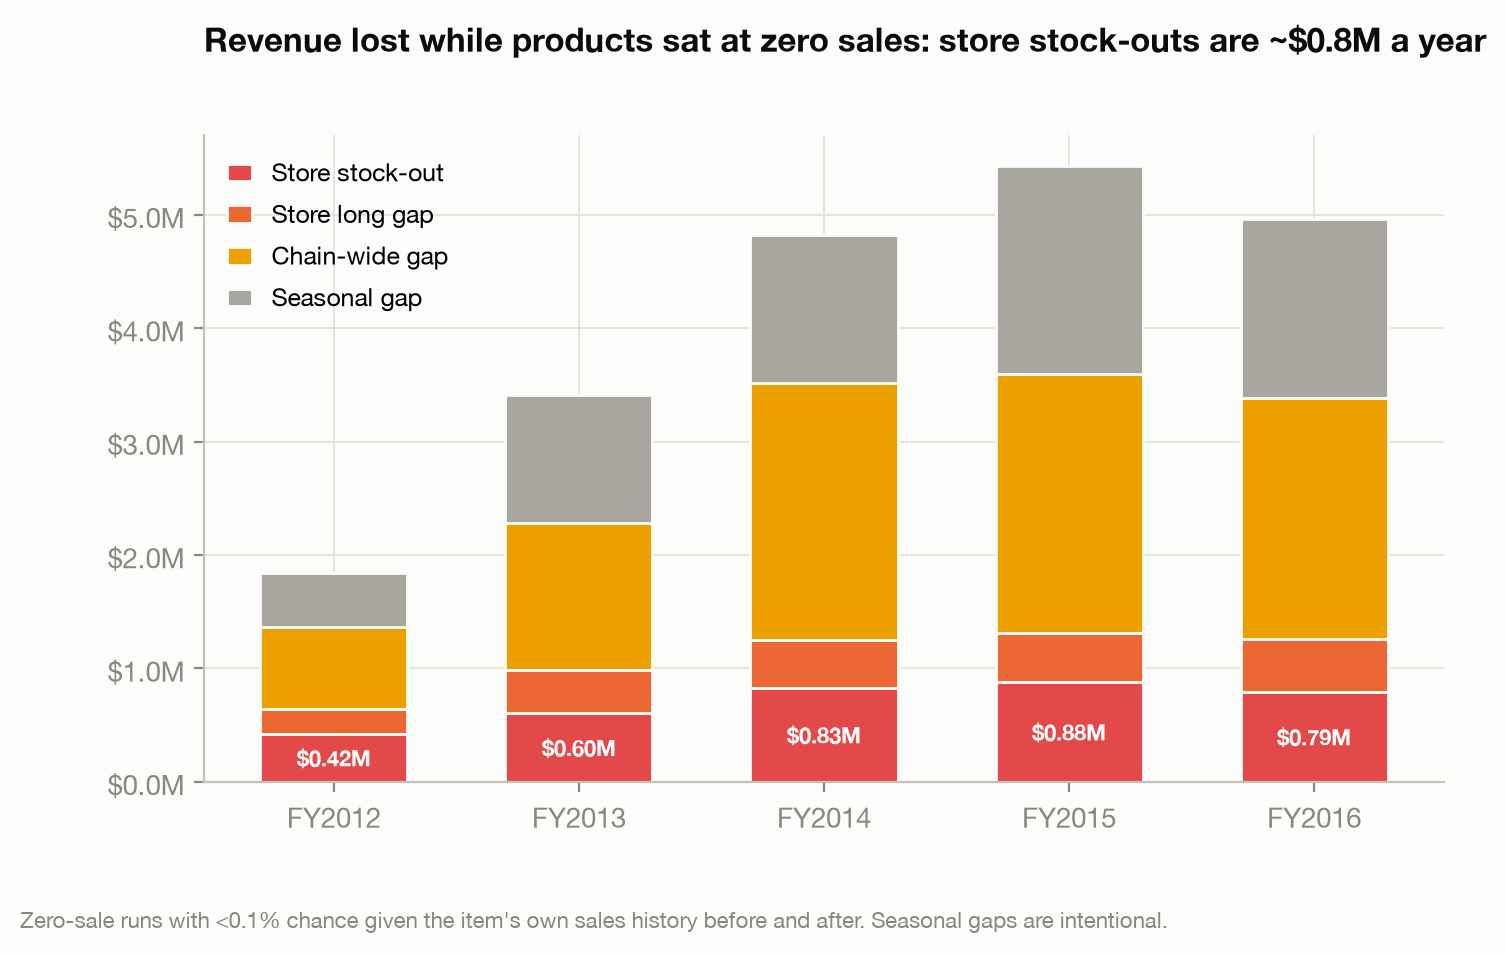
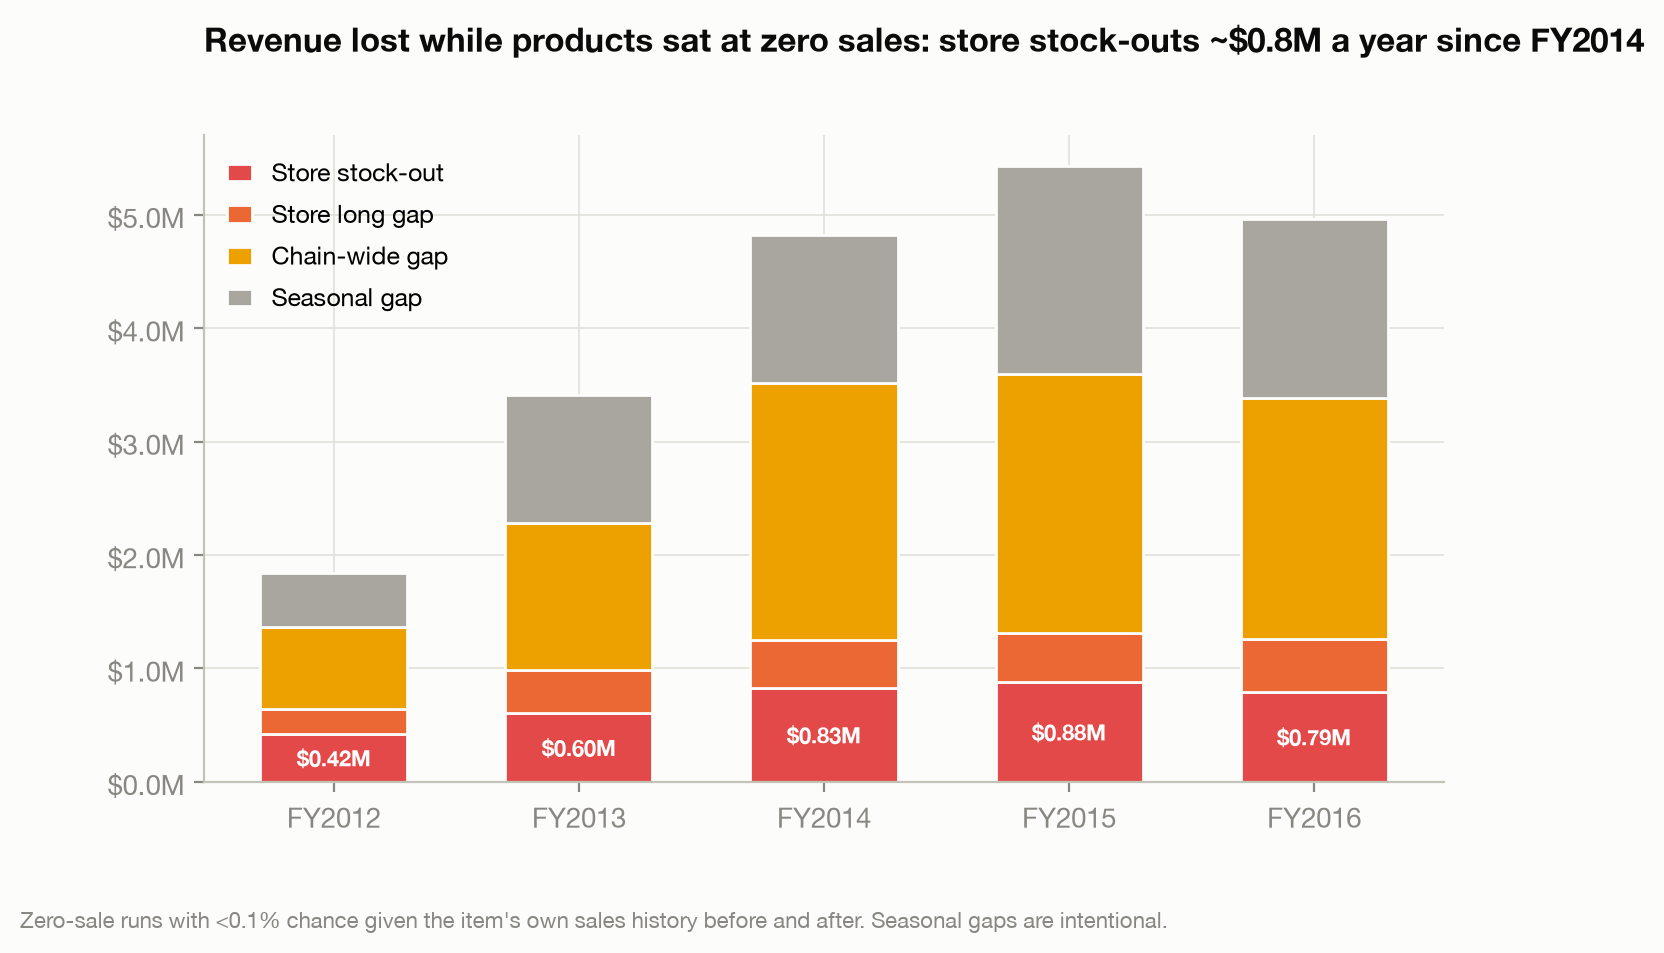
Final review: clearer summary, live CI badge, working links, honest wording
- Executive summary leads with the bottom line and the six actions; the
  findings follow as evidence.
- README: live GitHub Actions badge; the sample monthly review now links to
  the rendered page on GitHub Pages instead of raw HTML; 'Stress-testing
  sharpened the recommendations' (the stock-out opportunity shrank under
  testing, so 'hold up' overstated it); tidier reproduce steps.
- Interview Q&A: clearer elasticity definition; removed two claims without
  a source; added how this would run in a real analytics team.
- Two report chart titles brought in line with the qualified findings.

diff --git a/src/retailrev/figures.py b/src/retailrev/figures.py
@@ -388,7 +388,7 @@ def elasticity() -> None:
     ax2.set_xlabel("Event-study elasticity vs same item, other stores")
     _suptitle(
         fig,
-        "Household is the least price-sensitive area; shoppers react far less to price increases than to cuts",
+        "Household looks least price-sensitive in the main model; shoppers react far less to increases than to cuts",
         x=0.01,
         ha="left",
         fontweight="bold",
@@ -443,7 +443,7 @@ def stockouts() -> None:
     ax.set_xticks(range(len(t)), [f"FY{y}" for y in t.index])
     ax.yaxis.set_major_formatter(mtick.FuncFormatter(_m))
     ax.legend(loc="upper left", handlelength=1, fontsize=_fs(9))
-    _title(ax, "Revenue lost while products sat at zero sales: store stock-outs are ~$0.8M a year")
+    _title(ax, "Revenue lost while products sat at zero sales: store stock-outs ~$0.8M a year since FY2014")
     _save(
         fig,
         "10_stockouts",

diff --git a/README.md b/README.md
@@ -2,12 +2,12 @@
 
 **Revenue across 10 Walmart stores grew 65% in four years, but the same products in the same stores sold less for three of those years.** This project measures how much growth was real, finds why existing products shrank, sizes the levers (availability, pricing, SNAP timing, store changes), groups products into five segments with their own playbooks, designs a price test, and forecasts the next year. It uses real Walmart sales data.
 
-![CI](https://img.shields.io/badge/tests-41%20pytest%20%2B%2034%20dbt-2a78d6) · 📄 [Executive summary](reports/executive_summary.md) · 📓 [Exploration notebook](notebooks/01_exploration.ipynb) · 📅 [Sample monthly review](reports/monthly/mbr_2016-04.html) · 📖 [Metrics catalog](docs/metrics_catalog.md) · 🗂 [Data model (dbt docs)](https://maxliston.github.io/walmart-revenue-analytics/) · 📗 [Excel model](reports/walmart_price_test_and_segments.xlsx) · 🎤 [Interview Q&A](docs/interview_prep.md) · 📊 Dashboard: `streamlit run app.py --server.address localhost` <!-- add the deployed link: docs/deploy.md -->
+[![CI](https://github.com/MaxListon/walmart-revenue-analytics/actions/workflows/ci.yml/badge.svg)](https://github.com/MaxListon/walmart-revenue-analytics/actions/workflows/ci.yml) 41 tests + 34 dbt checks · 📄 [Executive summary](reports/executive_summary.md) · 📓 [Exploration notebook](notebooks/01_exploration.ipynb) · 📅 [Sample monthly review](https://maxliston.github.io/walmart-revenue-analytics/monthly/mbr_2016-04.html) · 📖 [Metrics catalog](docs/metrics_catalog.md) · 🗂 [Data model (dbt docs)](https://maxliston.github.io/walmart-revenue-analytics/) · 📗 [Excel model](reports/walmart_price_test_and_segments.xlsx) · 🎤 [Interview Q&A](docs/interview_prep.md) · 📊 Dashboard: `streamlit run app.py --server.address localhost` <!-- add the deployed link: docs/deploy.md -->
 
 ## Start here (2 minutes)
 1. **The question:** total revenue is growing. Is that real, and what should the business do next?
 2. **The answer:** growth came mostly from *adding* products. Existing products shrank for three years, mainly from weaker demand, and recovered in FY2016. Stock-outs, SNAP timing and a carefully designed price test are where the money is.
-3. **Where to look:** the [executive summary](reports/executive_summary.md) (one page), the dashboard below (its *Start here* tab tells the story in six steps), then the [SQL highlights](#sql-highlights) and [methods](#whats-in-the-analysis). Every metric is defined in the [metrics catalog](docs/metrics_catalog.md).
+3. **Where to look:** the [executive summary](reports/executive_summary.md) (bottom line and actions first), the dashboard below (its *Start here* tab tells the story in six steps), then the [SQL highlights](#sql-highlights) and [methods](#whats-in-the-analysis). Every metric is defined in the [metrics catalog](docs/metrics_catalog.md).
 
 ![Dashboard demo](reports/figures/dashboard_demo.gif)
 
@@ -26,7 +26,7 @@
 
 **4. Five product segments need five different playbooks.** Grouping all 3,049 products by how they sell (speed, gaps, seasonality, SNAP lift, stock-outs) gives **core fast movers** (27% of products, 46% of revenue), **SNAP-driven staples**, **availability risk**, **seasonal** and **long tail**. The surprise: **SNAP-driven staples are 14% of products but 41% of store stock-out losses.** Food runs out around SNAP days.
 
-**5. The recommendations hold up when stress-tested.**
+**5. Stress-testing sharpened the recommendations.**
 - **Forecasting:** on the M5 competition's own accuracy metric, a weekday average that adds this project's SNAP effects beats the standard seasonal-naive benchmark by **34%** and exponential smoothing by 22%, winning 5 of 6 test windows. The SNAP finding measurably improves forecasts.
 - **Stock-outs:** a simulation calibrated to the measured losses shows about a quarter is realistically recoverable (**≈$0.2M a year**, not the full $0.79M) for a modest rise in safety stock; SNAP-aware ordering trims staples' losses at no extra inventory.
 - **Launches:** a product's **first-month revenue per store-week** already ranks future top sellers well (AUC 0.92; its top-20% picks become top sellers 71% of the time vs 19% at random). A fuller model adds nothing.
@@ -108,7 +108,7 @@ The same warehouse is rebuilt in [dbt](dbt/) with 34 data tests, including one t
 - **Reproducible:** the full pipeline was re-run and every output diffed against the previous run; exact package versions are pinned in `requirements-lock.txt`.
 - **GitHub Actions:** linting with ruff, the tests, and a dbt compile check, on the pinned versions. Tests that need the non-redistributable raw data skip in CI.
 - **Self-contained dashboard:** it reads only the committed `outputs/`, so it deploys without the raw data ([deploy guide](docs/deploy.md)). A *Start here* tab tells the story, a sidebar glossary explains every term, and every tab offers its data as CSV.
-- **Automated monthly business review:** `python -m retailrev.report --month 2016-04` writes a one-page HTML review for any month: KPIs, an auto-written summary, a reconciling bridge, category and state tables, top movers and stock-outs ([example](reports/monthly/mbr_2016-04.html)).
+- **Automated monthly business review:** `python -m retailrev.report --month 2016-04` writes a one-page HTML review for any month: KPIs, an auto-written summary, a reconciling bridge, category and state tables, top movers and stock-outs ([example](https://maxliston.github.io/walmart-revenue-analytics/monthly/mbr_2016-04.html)).
 - **Metrics catalog:** one definition, formula, grain and source for every number ([docs/metrics_catalog.md](docs/metrics_catalog.md)).
 - **BI-ready:** extracts and build guides for [Tableau](docs/tableau_build_guide.md) and [Power BI](docs/powerbi_build_guide.md).
 - **Excel model:** [a workbook](reports/walmart_price_test_and_segments.xlsx) with a live price-test ROI model (change the price or elasticity and everything recalculates), the segment table and comparable sales, all as formulas (`python -m retailrev.excel`).
@@ -138,8 +138,7 @@ python -m retailrev.report --month 2016-04   # one-page monthly business review
 python -m retailrev.price_test   # price-test readout on a simulated result
 python -m retailrev.excel        # Excel workbook (formulas; Excel recalculates on open)
 pytest                           # 41 tests (incl. dashboard tests)
-cd dbt && dbt build --profiles-dir . && dbt docs generate --profiles-dir . --static && cd ..
-                                 # 34 dbt data tests, then the data-model site (dbt/target/static_index.html)
+cd dbt && dbt build --profiles-dir . && dbt docs generate --profiles-dir . --static && cd ..   # 34 data tests + docs site
 streamlit run app.py --server.address localhost   # local only; drop the flag to share on your network
 ```
 

diff --git a/docs/interview_prep.md b/docs/interview_prep.md
@@ -5,14 +5,14 @@ The questions an interviewer is most likely to ask about this project, with plai
 ---
 
 ## The 30-second pitch
-> "I analyzed five years of real Walmart sales, 59 million daily records across 10 stores. Revenue grew 65%, but when I held the product range fixed, the same products in the same stores were shrinking for three years. Growth was coming from adding products. I tested why: it wasn't new products stealing sales or a pricing problem; it was mostly weaker demand, plus about $0.8M a year in stock-outs. I sized the levers, designed a price test with real power calculations, and built a forecast with 0.9% backtest error, less than half that of a naive run-rate."
+> "I analyzed five years of real Walmart sales, 59 million daily records across 10 stores. Revenue grew 65%, but when I held the product range fixed, the same products in the same stores were shrinking for three years. Growth was coming from adding products. I tested why: it wasn't new products stealing sales or a pricing problem; it was mostly weaker demand, plus about $0.8M a year lost to stock-outs, of which about a quarter is realistically recoverable. I sized the levers, designed a price test with real power calculations, and built a forecast with 0.9% backtest error, less than half that of a naive run-rate."
 
 ---
 
 ## About the data
 
 **Is this real data?**
-Yes. It's the M5 forecasting competition dataset, which Walmart released through the University of Nicosia in 2020: real daily unit sales and weekly shelf prices for 3,049 products in 10 stores. Product names are anonymized, but categories, departments, stores and states are real. Three peer-reviewed papers describe it, including one showing it behaves like other real grocery datasets.
+Yes. It's the M5 forecasting competition dataset, which Walmart released through the University of Nicosia in 2020: real daily unit sales and weekly shelf prices for 3,049 products in 10 stores. Product names are anonymized, but categories, departments, stores and states are real. The competition and data are described in the *International Journal of Forecasting* (Makridakis, Spiliotis & Assimakopoulos, 2022).
 
 **Where does revenue come from? There's no revenue column.**
 Revenue = units sold × that week's shelf price. I checked that every unit sold has a price, so the calculation is complete, and units and revenue reconcile exactly across every table.
@@ -77,14 +77,14 @@ A run of zero-sale days is flagged when the product's own history makes it very 
 - I take the more conservative of the before/after rates.
 - Long gaps are classified separately: "seasonal" if the gap recurs at the same time each year, "chain-wide" if most other stores are dark at the same time.
 
-Only short gaps count as lost sales: $0.79M in FY2016 (1.9% of revenue), which is in line with industry norms. A test confirms the detector ignores a product whose demand truly disappears.
+Only short gaps count as lost sales: $0.79M in FY2016 (1.9% of revenue). A test confirms the detector ignores a product whose demand truly disappears.
 
 ---
 
 ## Pricing
 
 **What's price elasticity?**
-The % change in units for a 1% change in price. Above −1 in absolute terms (e.g. −0.4) means a price rise loses fewer units than it gains in price, so revenue goes up.
+The % change in units for a 1% change in price. Between 0 and −1 (e.g. −0.4), a price rise loses proportionally fewer units than it gains in price, so revenue goes up; below −1 (e.g. −1.5), revenue falls.
 
 **How did you estimate it?**
 Two ways:
@@ -115,6 +115,8 @@ I ran 200 "A/A tests" per design on real history: random fake treatment groups w
 
 ---
 
+---
+
 ## Product segments
 
 **How did you segment products, and why products instead of customers?**
@@ -129,6 +131,8 @@ Core fast movers are 27% of products but 46% of revenue. The surprise was SNAP-d
 **How do you know the method works?**
 A test plants five groups of fake products with known behaviours and checks that the method puts over 95% of them back in the right group with the right name, and gives the same answer however the rows are ordered.
 
+---
+
 ## Stress-testing the recommendations
 
 **How good is your forecasting, really?**
@@ -142,6 +146,8 @@ Not all of it. With no inventory data, I simulated weekly ordering with a 3-day 
 
 **How do you know the price-test analysis would work?**
 I wrote the brief before any result (hypothesis, design, metrics, guardrails, decision rule), then planted a known demand response into real Household sales and ran the exact analysis. Repeated 40 times per case, it said roll out 82% of the time when the rise truly pays and never when it doesn't, with unbiased estimates. The brief also flags the biggest risk: shoppers substituting from raised products to unraised ones in the same store, which would make demand look more elastic than a full rollout.
+
+---
 
 ## SNAP, stores, forecast
 
@@ -173,6 +179,9 @@ Each time, the checks caught the problem.
 - **dbt:** 34 data tests, including one that checks the dbt build against the Python pipeline.
 - **Reconciliation:** every revenue bridge reconciles to the cent.
 - **The dashboard itself:** automated tests render every tab, try every dropdown and filter option, and check the headline numbers against the analysis outputs, on every push.
+
+**How would this run in a real analytics team?**
+The same way it's built here. The metric definitions live in one [metrics catalog](metrics_catalog.md), so finance and merchandising mean the same thing by "comparable sales". A one-command [monthly business review](https://maxliston.github.io/walmart-revenue-analytics/monthly/mbr_2016-04.html) replaces a hand-built slide pack and flags its own weak spots (for example, stock-out estimates for the latest month are incomplete). The data model is documented and tested in dbt, the dashboard is tested on every change, and every number in the deck traces back to a file in `outputs/`.
 
 **What would you do with more data?**
 - **Promotion and display data:** to separate price effects from signage.

diff --git a/reports/executive_summary.md b/reports/executive_summary.md
@@ -5,6 +5,16 @@
 ## Bottom line
 Revenue grew **65%** from FY2012 to FY2016 ($25.9M → $42.8M), but **the same products in the same stores sold less for three straight years**. Comparable sales were −3.5%, −9.2% and −5.9%. Adding products carried growth until FY2016, when comparable sales turned positive (**+5.6%**, 95% CI +2.9% to +8.4%). FY2017 is tracking to **$48.7M (+13.8%)**.
 
+## What to do
+1. **Report comparable sales next to total growth** in every review, with the revenue bridge.
+2. **Run the Household price test** as set out in the [brief](../docs/price_test_brief.md): a 5% increase on a random half of product-store pairs for 12 weeks. If elasticity is about −0.4, a full Household rollout is worth about **+3% ≈ $0.4M a year** on $13.3M of revenue. If the test finds elasticity near −1, don't roll out.
+3. **Cut store stock-outs**, starting with SNAP-driven staples (41% of the losses): daily zero-sales alerts, modestly more safety stock and SNAP-aware ordering for staples. $0.79M was lost in FY2016; about $0.2M a year is realistically recoverable.
+4. **Plan food replenishment and labor to each state's SNAP calendar**, especially in Wisconsin and Texas.
+5. **Review chain-wide gaps with merchandising:** $2.1M of FY2016 revenue was lost while listed products were dark in most stores at once. Separate deliberate range cuts from supply failures.
+6. **Visit CA_3** (the largest store, with flat comparable sales) **and WI_3** (−25% in April 2013).
+
+The evidence for each is below.
+
 ![Total vs comparable growth](figures/01_growth_vs_comp.png)
 
 ## Findings
@@ -25,7 +35,7 @@ Revenue grew **65%** from FY2012 to FY2016 ($25.9M → $42.8M), but **the same p
 **3. Stock-outs have cost about $0.8M a year since FY2014.** A zero-sale run is flagged when the product's own sales history makes it less than 0.1% likely.
 - **Store stock-outs:** $0.79M lost in FY2016 (1.9% of revenue).
 - **Chain-wide gaps:** another $2.1M, when products are dark in most stores at once. That's a supply or assortment question.
-- **Store long gaps:** $0.46M, when one store is dark for longer than a month while others keep selling.
+- **Store long gaps:** $0.46M, when one store is dark for longer than 28 days while most other stores keep selling.
 - **Seasonal gaps:** $1.6M, which are intentional.
 
 **4. Household is the best candidate for a price test, but not a settled case.** In the main Poisson fixed-effects model, Household elasticity is about −0.4 (HOUSEHOLD_1 −0.41, HOUSEHOLD_2 −0.39), while Foods sits near −0.9 to −1.4. The robustness checks are noisier: restricted to fast sellers, HOUSEHOLD_2 comes out at +0.09 (CI −0.57 to +0.75), and the price-change event study for HOUSEHOLD_1 alone gives −1.63 (CI −2.88 to −0.38). That uncertainty is why the recommendation is a test, not a rollout. Across all 15,246 permanent price changes, compared against the same product in stores that kept the old price:
@@ -57,21 +67,13 @@ SNAP-driven staples carry far more than their share of stock-outs: demand spikes
 
 ![Product segments](figures/17_product_segments.png)
 
-**10. The recommendations hold up when stress-tested.**
+**10. Stress-testing sharpened the recommendations.**
 - **Forecasting:** scored with the M5 competition's own metric (WRMSSE, 9 aggregate levels, six 28-day windows), a weekday average that adds the SNAP-day effects from finding 6 is **34% more accurate than seasonal naive** and 22% better than exponential smoothing, winning 5 of 6 windows.
 - **Stock-outs:** a weekly-ordering simulation, calibrated so today's policy loses what the detector measured, recovers **26% of losses for $85K more average inventory** (+0.5 SD safety stock), with diminishing returns after that. Scaled to all store stock-outs, about **$0.2M a year is realistically recoverable**, not $0.79M. SNAP-aware ordering saves staples about $17K a year at the same inventory.
 - **Launches:** first-month revenue per store-week alone ranks future top sellers with AUC 0.92; its top-20% picks become top sellers 71% of the time (19% at random). A logistic model with five more signals adds nothing.
 - **Price test:** the [experiment brief](../docs/price_test_brief.md) fixes the analysis in advance. Run on real sales with a planted response, the decision rule rolled out 82% of the time when the rise truly pays (consistent with the designed 89%) and never when it doesn't; estimates were unbiased.
 
 ![Forecast benchmark](figures/18_forecast_benchmark.png)
-
-## Recommendations
-1. **Report comparable sales next to total growth** in every review, with the revenue bridge.
-2. **Run the Household price test** as set out in the [brief](../docs/price_test_brief.md): a 5% increase on a random half of product-store pairs for 12 weeks. If elasticity is about −0.4, a full Household rollout is worth about **+3% ≈ $0.4M a year** on $13.3M of revenue. If the test finds elasticity near −1, don't roll out.
-3. **Cut store stock-outs**, starting with SNAP-driven staples (41% of the losses): daily zero-sales alerts, modestly more safety stock and SNAP-aware ordering for staples. $0.79M was lost in FY2016; about $0.2M a year is realistically recoverable.
-4. **Plan food replenishment and labor to each state's SNAP calendar**, especially in Wisconsin and Texas.
-5. **Review chain-wide gaps with merchandising:** $2.1M of FY2016 revenue was lost while listed products were dark in most stores at once. Separate deliberate range cuts from supply failures.
-6. **Visit CA_3** (the largest store, with flat comparable sales) **and WI_3** (−25% in April 2013).
 
 ## Caveats
 - **A sample, not all of Walmart:** 3,049 anonymized products in 10 stores, not total store revenue.
